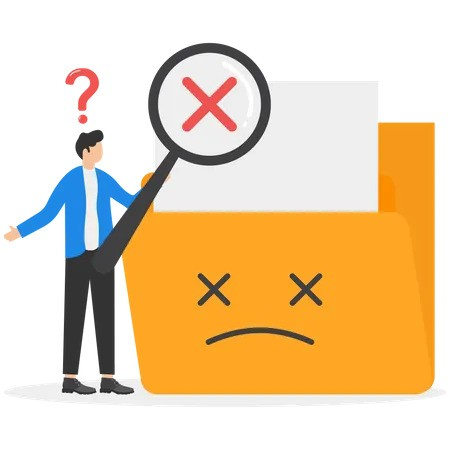
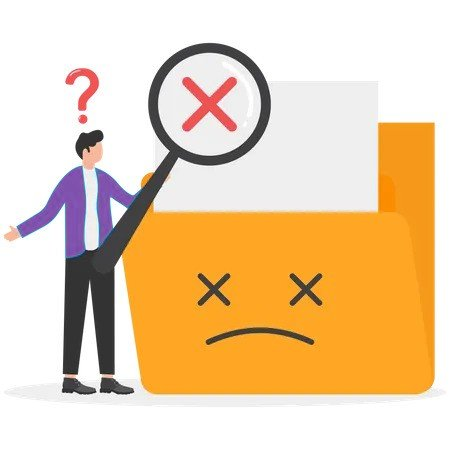
change the no students/classes view based on the context

Changed region(s): [[0.0311, 0.3733, 0.3111, 0.5911]]

diff --git a/frontend/src/components/Form/Form.style.tsx b/frontend/src/components/Form/Form.style.tsx
@@ -1,4 +1,4 @@
-import { Button, TextField, styled, useMediaQuery } from "@mui/material";
+import { Button, FormHelperText, TextField, styled, useMediaQuery } from "@mui/material";
 import { ThemeContextType } from "../../Types/types";
 
 export const FormContainer = styled("div")(({ theme }) => ({
@@ -24,36 +24,40 @@ export const FormHeader = styled("div")(({ theme }) => ({
 }))
 
 export const InputField = styled(TextField)(({ theme }) => ({
-    marginLeft: "2vw",
     [theme.breakpoints.only("xl")]: {
+        marginLeft: "2vw",
         width: "12vw",
         height: "5vh",
         fontSize: "1.2rem",
-        marginBottom: "2vh"
+        marginBottom: "1vh"
     },
     [theme.breakpoints.only("lg")]: {
+        marginLeft: "2vw",
         width: "18vw",
         height: "5vh",
         fontSize: "1.2rem",
-        marginBottom: "2vh"
+        marginBottom: "1vh"
     },
     [theme.breakpoints.only("md")]: {
+        marginLeft: "2vw",
         width: "20vw",
         height: "5vh",
         fontSize: "1.2rem",
-        marginBottom: "2vh"
+        marginBottom: "1vh"
     },
     [theme.breakpoints.only("sm")]: {
+        marginLeft: "2vw",
         width: "50vw",
         height: "7vh",
         fontSize: "1.2rem",
         marginBottom: "1vh",
     },
     [theme.breakpoints.only("xs")]: {
+        marginLeft: "7vw",
         width: "70vw",
         height: "7vh",
         fontSize: "1.2rem",
-        marginBottom: "1vh"
+        marginBottom: "0.5vh"
     },
     // border: "0.1px solid #858585",
     // borderRadius: "10px"
@@ -69,6 +73,9 @@ export const SubmitBtn = styled(Button, {
     '&:hover' : {
         backgroundColor: projectTheme,
         color: "#FFFFFF"
+    },
+    ":disabled": {
+        backgroundColor: "#e9ecef"
     },
     [theme.breakpoints.only("xl")]: {
         width: "16vw",
@@ -112,4 +119,29 @@ export const ErrorMessage = styled("div", {
     color: "#fc0303",
     marginTop: "2vh",
     visibility: showError ? "visible" : "hidden"
+}))
+
+export const HelperText = styled(FormHelperText)(({ theme }) => ({
+    textAlign: "right",
+    direction: "rtl",
+    [theme.breakpoints.only("xl")]: {
+        marginRight: "2vw",
+        marginBottom: "3vh",
+    },
+    [theme.breakpoints.only("lg")]: {
+        marginRight: "2vw",
+        marginBottom: "3vh",
+    },
+    [theme.breakpoints.only("md")]: {
+        marginRight: "2vw",
+        marginBottom: "3vh",
+    },
+    [theme.breakpoints.only("sm")]: {
+        marginRight: "2vw",
+        marginBottom: "3vh",
+    },
+    [theme.breakpoints.only("xs")]: {
+        marginRight: "10vw",
+        marginBottom: "2vh",
+    },
 }))

diff --git a/frontend/src/components/Create/Create.consts.tsx b/frontend/src/components/Create/Create.consts.tsx
@@ -11,7 +11,8 @@ export const classesFields : FormField[] = [
             }
 
             return false
-        }
+        },
+        helperText: "מזהה צריך להכיל גג תשע ספרות"
     },
     {
         name: "name",
@@ -23,7 +24,8 @@ export const classesFields : FormField[] = [
             }
 
             return false;
-        }
+        },
+        helperText: "שם כיתה יכול להכיל אותיות בעברית ואנגלית וספרות"
     },
     {
         name: "seatsLeft",
@@ -37,7 +39,8 @@ export const classesFields : FormField[] = [
             }
 
             return false;
-        }
+        },
+        helperText: "מספר המקומות בכיתה יכול להיות בן 1 ל 1000"
     }
 ];
 
@@ -60,7 +63,8 @@ export const studentFields : FormField[] = [
             }
 
             return false;
-        }
+        },
+        helperText: "מזהה יכול להכיל רק תשע ספרות"
     },
     {
         name: "firstName",
@@ -68,7 +72,8 @@ export const studentFields : FormField[] = [
         placeHolder: "First Name",
         validation: (firstName: string) => {
            return onlyLetters(firstName)
-        }
+        },
+        helperText: "שם יכול להכי רק אותיות בעברית או אנגלית"
     },
     {
         name: "lastName",
@@ -76,7 +81,8 @@ export const studentFields : FormField[] = [
         placeHolder: "Last Name",
         validation: (lastName: string) => {
             return onlyLetters(lastName)
-        }
+        },
+        helperText: "שם יכול להכי רק אותיות בעברית או אנגלית"
     },
     {
         name: "age",
@@ -90,7 +96,8 @@ export const studentFields : FormField[] = [
             }
 
             return false;
-        }
+        },
+        helperText: "גיל יכול להיות בן 8 ל 120"
     },
     {
         name: "profession",
@@ -98,6 +105,7 @@ export const studentFields : FormField[] = [
         placeHolder: "Profession",
         validation: (profession: string) => {
             return onlyLetters(profession)
-        }
+        },
+        helperText: "מקצוע יכול להכי רק אותיות בעברית או אנגלית"
     }
 ]

diff --git a/frontend/src/components/ErrorPage/ErrorPage.tsx b/frontend/src/components/ErrorPage/ErrorPage.tsx
@@ -3,6 +3,10 @@ import { Props } from "./ErrorPage.types";
 import { useTheme } from "../../Context/ThemeContext";
 import * as S from "./ErrorPage.style"
 import notFoundBlue from "../../assets/not_found_blue.jpg"
+import notFoundPurple from "../../assets/not_found_purple.jpg"
+import notFoundGray from "../../assets/not_found_gray.jpg"
+import notFoundGreen from "../../assets/not_found_green.jpg"
+import notFoundBrown from "../../assets/not_found_brown.jpg"
 import notFoundRed from "../../assets/not_found_red.jpg"
 import { useNavigate } from "react-router-dom";
 
@@ -15,10 +19,24 @@ const ErrorPage: React.FC<Props> = ({errorMessage, redirectMessage}) => {
         navigate('/create');
     }
 
+    let imageSrc = notFoundBlue;
+
+    if (theme === "#F50057") {
+        imageSrc = notFoundRed;
+    } else if (theme === "#2a850e") {
+        imageSrc = notFoundGreen;
+    } else if (theme === "#4d0b0a") {
+        imageSrc = notFoundBrown;
+    } else if (theme === "#5c5248") {
+        imageSrc = notFoundGray;
+    } else if (theme === "#7b2cbf") {
+        imageSrc = notFoundPurple;
+    }
+
     return (
         <S.Container projectTheme={theme}>
             <S.ContentContainer>
-                <S.ErrorImage src={theme === "#3F50B5" ? notFoundBlue : notFoundRed}>
+                <S.ErrorImage src={imageSrc}>
                 </S.ErrorImage>
             </S.ContentContainer>
             <S.ContentContainer>

diff --git a/frontend/src/components/Form/Form.tsx b/frontend/src/components/Form/Form.tsx
@@ -33,14 +33,17 @@ const Form : React.FC<Props> = ({header, btnText, handleClick, fields}) => {
 
     const renderedFields = fields.map((field) => {
         return (
-            <S.InputField 
-             error={!field.validation(formData[field.name].toString()) && formData[field.name].toString() !== ''}
-             required={field.required}
-             label={field.placeHolder}  
-             name={field.name}
-             value={formData[field.name]}
-             onChange={handleChange}
-            />
+            <div>
+                <S.InputField 
+                error={!field.validation(formData[field.name].toString()) && formData[field.name].toString() !== ''}
+                required={field.required}
+                label={field.placeHolder}  
+                name={field.name}
+                value={formData[field.name]}
+                onChange={handleChange}
+                />
+                <S.HelperText>{field.helperText}</S.HelperText>
+            </div>
         )
     })
 

diff --git a/frontend/src/components/Classes/Classes.tsx b/frontend/src/components/Classes/Classes.tsx
@@ -30,7 +30,7 @@ const Classes : React.FC<{
        }).then(async (result) => {
             if (result.isConfirmed) {
                 const selectedClass = classrooms?.find(classroom => classroom._id === classroomId);
-                if (selectedClass?.numberOfSeats === selectedClass?.seatsLeft) {
+                if (selectedClass?.capacity === selectedClass?.seatsLeft) {
                     try {
                         await deleteClassroom(classroomId);
         
@@ -38,7 +38,7 @@ const Classes : React.FC<{
                             id: classroomId
                         }));
             
-                        alertify.success("class deleted successfully");
+                        alertify.success("הכיתה נמחקה בהצלחה");
                     } catch (error: any) {
                         Swal.fire({
                             title: 'תקלה',

diff --git a/frontend/src/components/Students/Students.tsx b/frontend/src/components/Students/Students.tsx
@@ -162,7 +162,7 @@ const Students : React.FC<{
 
     return (
         <div>
-            {status === "done" && studentsStatus === "done" && students.length > 0 && <div>
+            {/* {status === "done" && studentsStatus === "done" && students.length > 0 && <div>
             <S.StudentTableContainer>
                 <S.StudentTable>
                     <TableHead>
@@ -193,7 +193,8 @@ const Students : React.FC<{
             }
             {(status === "failed" || studentsStatus === "failed") && (status !== "loading" && studentsStatus !== "loading") &&
                 <NoConnection></NoConnection>
-            }
+            } */}
+            <ErrorPage errorMessage="נראה מאוד בודד כאן, אין תלמידים" redirectMessage="לחץ כדי להוסיף תלמידים"></ErrorPage>
         </div>
     )
 }

diff --git a/frontend/src/components/PopupList/PopupList.style.tsx b/frontend/src/components/PopupList/PopupList.style.tsx
@@ -10,7 +10,7 @@ export const StudentModal = styled(Modal)(({ theme }) => ({
         marginLeft: "40vw",
         marginTop: "40vh",
         width: "14vw",
-        height: "14vh"
+        height: "30vh"
     },
     [theme.breakpoints.only("lg")]: {
         marginLeft: "40vw",
@@ -36,6 +36,8 @@ export const StudentModal = styled(Modal)(({ theme }) => ({
         width: "60vw",
         height: "20vh"
     },
+    overflow: "auto",
+    overflowX: "hidden"
 }))
 
 export const ModalHeader = styled("div")({

diff --git a/frontend/src/components/Form/Form.types.tsx b/frontend/src/components/Form/Form.types.tsx
@@ -5,7 +5,8 @@ export interface FormField {
     name: string,
     placeHolder: string,
     required: boolean,
-    validation : (value : string) => boolean
+    validation : (value : string) => boolean,
+    helperText: string
 };
 
 export interface Props {
